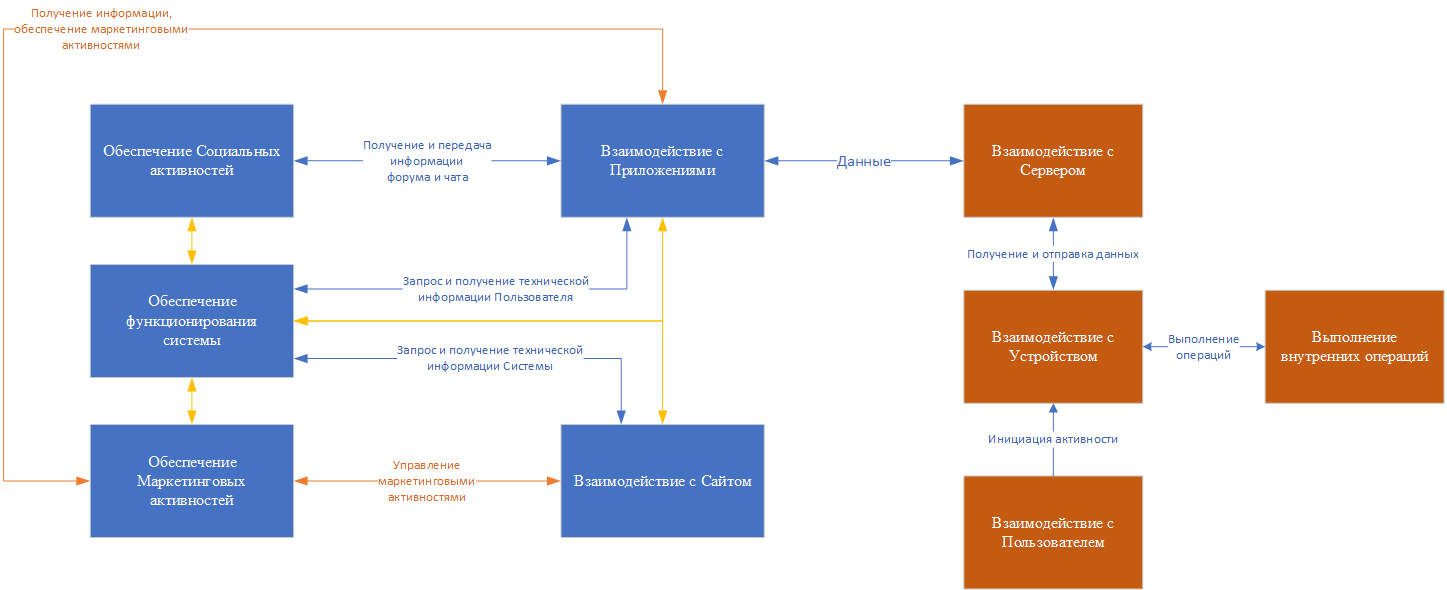
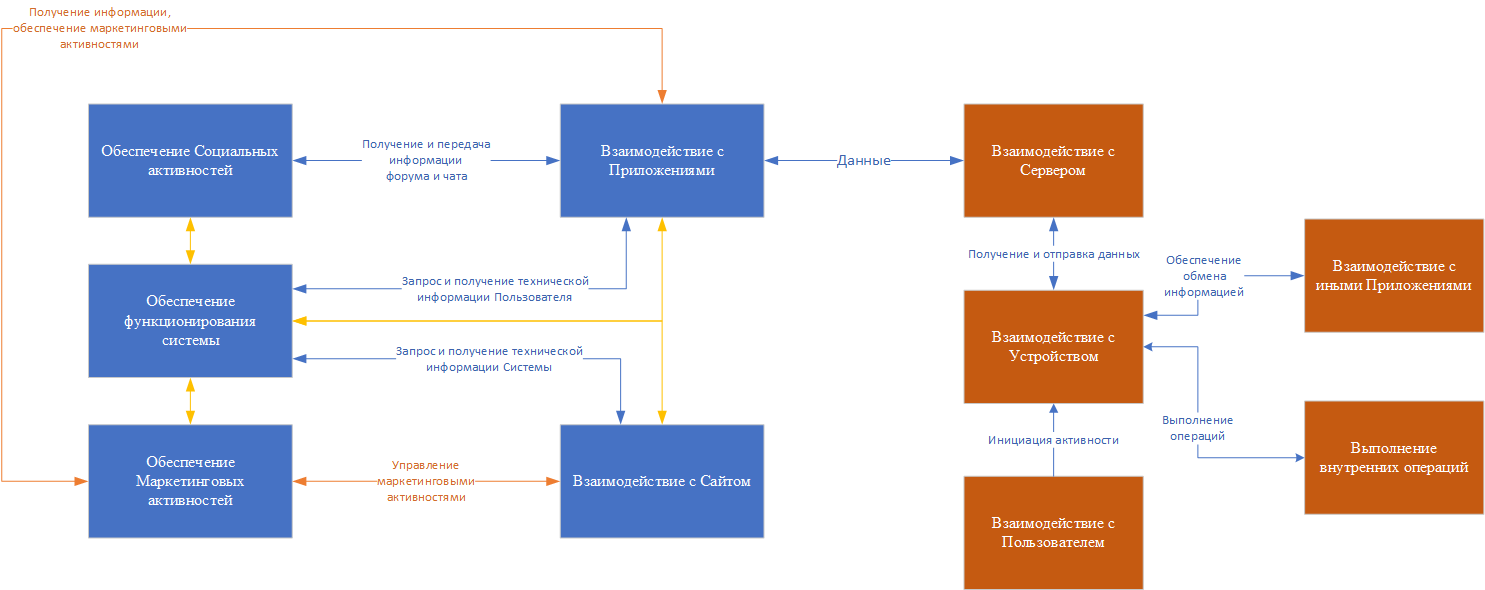
Корректировка ошибок

diff --git a/01_businessGoals.md b/01_businessGoals.md
@@ -1,23 +1,9 @@
-# Цели
+# Бизнесс-Цели
 ## As is цели
-1. [Приложение][1], повышающее приоритет нашим товарам
-2. [Приложение][2], позволяющее интегрировать другие устройства, в том числе и фитнесс-возможности мобильных устройств
+1. *Приложение, повышающее приоритет нашим товарам*. Основная задача бизнеса - зарабатывать деньги. Как бы не расхваливали самих себя маркетологи, их задача - продать товар. Первая задача - формирование позитивного образа товаров, формировапание дополнительных стимулов купить именно +товары нашей фирмы. Чем больше ништяков именно на наши товары мы завяжем - тем приятнее будет пользователю их использовать и выше шанс, что именно у нас он будет их покупать. 
+Простой пример: для наших кроссовок будет расчитываться износ с учетом расстояния, покрытия дорог, массы и роста пользователя и т.д., а для других кросовок - "на глаз". Мелочь, а приятно.
+2. *Приложение, позволяющее интегрировать другие устройства, в том числе и фитнесс-возможности мобильных устройств*. Мы - продавцы спортивных товаров. Мы должны их максимально обслуживать. И чужие тоже. Но наши - чуть лучше. Все фитнесс-трекеры, браслеты, умные кроссовки и бутылки будут умными только в соответствующей инфраструктуре. Не учитывть эти устройства - это терять огромный пласт пользователей. Мы должны уметь всё.
 
 ## To be цели
-3. [Приложение][3], позволяющее интегрировать продающие элементы с других приложений компании
-4. [Приложение][4], имеющие функции социальной сети
-
-# Обоснования
-## Приложение, повышающее приоритет нашим товарам
-[1]: Основная задача бизнеса - зарабатывать деньги. Как бы не расхваливали самх себя маркетологи, их задача - продать товар. Первая задача - формирование позитивного образа товаров, формировапание дополнительных стимулов купить именно +товары нашей фирмы. Чем больше ништяков именно на наши товары мы завяжем - тем приятнее будет пользователю их использовать и выше шанс, что именно у нас он будет их покупать. 
-Простой пример: для наших кроссовок будет расчитываться износ с учетом расстояния, покрытия дорог, массы и роста пользователя и т.д., а для других кросовок - "на глаз". Мелочь, а приятно.
-
-## Приложение, позволяющее интегрировать другие устройства, в том числе и фитнесс-возможности мобильных устройств
-[2]: Мы - продавцы спортивных товаров. Мы должны их максимально обслуживать. И чужие тоже. Но наши - чуть лучше. Все фитнесс-трекеры, браслеты, умные кроссовки и бутылки будут умными только в соответствующей инфраструктуре. Не учитывть эти устройства - это терять огромный пласт пользователей. Мы должны уметь всё.
-
-## Приложение, позволяющее интегрировать продающие элементы с других приложений компании
-[3]:Задача все та же - продавать товар. Есть приложения-магазины - туда надо направляять, предлагать, уведомлять. Пользователь думать не любит: если предложение устраивает по цене и не надо прикладывать горы усилий - он купит. 
-Как подпункт, обмен данными с иными приложениями по спорту. Глупо не интегрпировать имеющиеся результаты пользователей. Например, особое приложение для марафонцев. Если там записаны данные по тренировкам и результатам, просто выкинуть их - это очень расстроить пользователя, который этих результатов достиг. А расстроенный пользователь не купит. Ему должно быть максимально просто и комфортно перейти в приложение с любого другого из наших и даже чужих прилложений. Чем для него меньше цена перехода - тем с большим шансом он всё же увидит нашу рекламу в приложении и купит именно наш товар.
-
-## Приложение, имеющие функции социальной сети
-[4]:Социальная сеть - это реклама. Множество людей будут ежедневно рекламировать наш товар, общаясь в нашей сети. Чем легче и приятнее будет найти компанию на пробежку с приложением - тем больше людей будут его советовать, общаться о наших товарах, 
+3. *Приложение, позволяющее интегрировать продающие элементы с других приложений компании*. Задача все та же - продавать товар. Есть приложения-магазины - туда надо направляять, предлагать, уведомлять. Пользователь думать не любит: если предложение устраивает по цене и не надо прикладывать горы усилий - он купит. Как подпункт, обмен данными с иными приложениями по спорту. Глупо не интегрпировать имеющиеся результаты пользователей. Например, особое приложение для марафонцев. Если там записаны данные по тренировкам и результатам, просто выкинуть их - это очень расстроить пользователя, который этих результатов достиг. А расстроенный пользователь не купит. Ему должно быть максимально просто и комфортно перейти в приложение с любого другого из наших и даже чужих прилложений. Чем для него меньше цена перехода - тем с большим шансом он всё же увидит нашу рекламу в приложении и купит именно наш товар.
+4. *Приложение, имеющие функции социальной сети*. Социальная сеть - это реклама. Множество людей будут ежедневно рекламировать наш товар, общаясь в нашей сети. Чем легче и приятнее будет найти компанию на пробежку с приложением - тем больше людей будут его советовать, общаться о наших товарах.

diff --git a/06_wayToBuild.md b/06_wayToBuild.md
@@ -1,17 +1,18 @@
-# Этап подготовки
-## Сбор данных
+# План разработки
+## Этап подготовки
+### Сбор данных
 На данном этапе важно оценить, сколько данных может проходить через приложение, насколько оно может быть хотя бы в теории выгодным. Пока только сбор информации.
 1. Оценка колличества пользователей, их активность, потенциал роста
 2. Оценка влияния приложений на рост продаж внешних устройств
 3. Оценка экономической целесообразности по разработке
 
-## Согласования
+### Согласования
 На данном этапе важно чётко прописать какие именно функции должны быть. Не обстрактно, а до запятой. Затем этот список необходимо согласовать со всеми ЛПР, чтобы не пихать невпихуемое в готовый проект, когда ВНЕЗАПНО выяснится, что "директор хотел иначе".
 1. Оценка необходимых функций, согласование с Заказчиком
 2. Оценка необходимых к синхронизации данных Приложений, согласование с Заказчиком
 3. Составление списка необходимых к реализации функций в рамках "геймификации" и согласования с Заказчиком
 
-## Разработка архитектуры
+### Разработка архитектуры
 Прежде, чем строить, нужно сделать план.
 1. Создание концептуальной архитектуры
 2. Оценка концепции с точки зрения бизнеса
@@ -19,20 +20,20 @@
 4. Создание архитектурной схемы, согласование со всеми заинтересованными лицами
 5. Выбор мест размеещния элементов архитектуры (сторонний сервис или наш, уже имеющийся? Базу хранить в облаке или у себя?)
 
-# Разработка серверной и клиентской части 
+## Разработка серверной и клиентской части 
 Путь следующий:
 1. Разработка всех API-сервисов. Сначала все должны начать общаться со всеми.
 2. Разработка "фичи". То, что сделает приложение нужным и интересным для Клиента. Без этого никак.
 3. Разработка "фитнесс" функций. В первую очередь Клиент должен получить основной функционал, а именно - возможность бегать под присмотром. После окончания этого этапа приложение можно начать выводить на рынок и допиливать в процессе.
 3. Разработка социальных функциий. Самое некритичное с точки зрения функциональности
 
-## Этап начальной разработки
+### Этап начальной разработки
 На этом этапе важно создать предварительную инфраструктуру, проверить, что "есть коннект" между всеми элементами, они совместимы. 
-### Серверная часть
+#### Серверная часть
 1. Создание по одному экземпляру сервиса, без балансировщиков и иных изысков, на уровне API и простейшей логики.
 2. Объединение их в сеть
 3. Достижение работоспособности "стенда"
-### Приложение
+#### Приложение
 Пока главеное - заставить приложение общаться с Сервером и устройством, на котором оно установлено. Пусть не отображает карту с бегом, но хоть видит, что в телефоне есть GPS и может снять с него показания.
 1. Разработка api для общения с Сервером
 2. Разработка api для общения с Устройством
@@ -40,26 +41,28 @@
 4. Коннект приложения с сервером
 5. Разработка дизайна (с учетом "гемерской" направленности)
 
-## Этап дальнейшей разработки
-### Серверная часть
+### Этап дальнейшей разработки
+#### Серверная часть
 1. Реализация требуемых функций
 2. Внедрение балансировщиков, брокеров очередей и иных инфраструктурных элементов согласно архитектуре
-### Приложение
+#### Приложение
 1. Реализация требуемых функций
 
-## Этап финальной разработки
-### Серверная часть
+### Этап финальной разработки
+#### Серверная часть
 1. Разворачивание сервисов на "боевом" железе
 2. Тестирование
-### Приложение
+#### Приложение
 1. Тестирование
 2. Размещение в Магазинах Приложений
+#### Сайт
+Сайт - дополнительный сервис для менеджмента по отчетности и маркетингу. Имеет смысл начинать только после набора хоть минимальной аудитории. Если приложение не взлетит, то ставить туда рекламу - бессмысленно.
 
 Этапы 2 и 3 повторять для каждой новой области (фичи, фитнесс, социальная). 
 В дальнейшем - доработка, багофиксинг, балансировка выделяемых можностей в зависимости от нагрузки.
 Важно помнить о зерг-раше при маркетинговой активности в этой области.
 
-# Критически важные компоненты
-1. Самое важное - относительная автономность приложения. Оно должно работать даже при полносм отсутствии связи с сервером. 
+## Критически важные компоненты
+1. Самое важное - относительная автономность приложения. Оно должно работать даже при полном отсутствии связи с сервером. 
 2. Крайне важным является БД. Необходимы локальные БД для каждой страны (юридические ограничения), возможны наплывы пользовательской активности
 3. С точки зрения размещения, не стоит разворачивать отдельную копию сервиса в каждой из стран земного шара. Логичным будет выделение "регионов" в зависимости от ожидаемой загрузки. Район "США", "Южная Америка", "Европа", "Китай" и т.д., в зависимости от рыночной обстановки и начальтвующей воли.

diff --git a/03_stakHolders.md b/03_stakHolders.md
@@ -3,29 +3,25 @@
 1. Деньги. Владельцам искренне фиолетово на всё, им важно делать бизнесс и зарабатывать деньги. 
 Учитывая, что именно они нам платят, реализация этого интереса - самая приоритетная. Хотя, скорее всего, с людьми такого уровня общения не будет.
 
-
 ## Управляющий менеджмент
-1. Деньги. Директорат не меньше владельцев желает заработать, но, в отличии от них, куда больше пекутся об интересах фирмы. с
+1. Деньги. Директорат не меньше владельцев желает заработать, но, в отличии от них, куда больше пекутся об интересах фирмы.
 2. Отчетность. Их зарплата зависит от их результатов. Любые траты и косяки могут испортить им отчет и настроение, а нам - рабочий процесс.
 3. Репутация фирмы. Они хотят работать в крутой фирме. Потому предлагать им решения, приносящие вред репутации фирмы - плохой выбор.
-Следует предлагать те решения, что будут фирме выгодны, а лично им - ненапряжны. Плюс серьезный политический вопрос - прийти к ним на встречу с фитнесс-трекером от конкурента - плохая мысль.
-
+Следует предлагать те решения, что будут фирме выгодны, а лично им - ненапряжны. Плюс серьезный политический вопрос - прийти к ним на встречу с фитнесс-трекером от конкурента - создать себе серьезные проблемы.
 
 ## Рядовой менеджмент
 1. Продажи. Рядовому продавцу чаще всего плевать и на фирму, и её репутацию: он должен продать, выполнить план, получить зарплату и премию. Потому, с его точки зрения, все приложение - это одна большая реклама по продажам.
 2. И вообще, пусть приложение будет платным, а прибыль мне в план засчитывается!
 Самые наглые, непродуманные и зацикленные на себе товарищи. К ним нужно прислушиваться, ибо с клиентами общаются именно они и знают, что люди хотят, но ни в коем случае не ставить их хотелки в приоритет.
 
-
 ## Клиент
 1. Функционал. Скорее всего, клиенту плевать, какой именно фирмы приложение использовать. Ему нужно, чтобы функционал приложения максимально отвечал его желаниям.
 2. Дешевизна. Он не хочет платить. Из принципа. 
 3. Удобство. Он не хочет думать. Он хочет нажать кнопку и получить результат.
-4. Место на телефоне. Оно не резиновое, да и среди тысячи иконок сложно что-то найти. Максимальная универсальность приложения.
-5. Понты. Человек хочет хвастаться. Хочет быть заметным, видным, важным. 
-Именно этим людям нужно будет продать товар. Именно они принесут фирме прибыль. Потому их интересы - приоритет (сразу после прибыли для фирмы). Нужен четкий баланс между этими интересами, ибо, скорее всего, они на строго противоположных чашах весов.
+4. Место на телефоне. Оно не резиновое, да и среди тысячи иконок сложно что-то найти. Максимальная универсальность приложения при минимальном размере.
+5. Понты. Человек хочет хвастаться. Хочет быть заметным, видным, важным. Приложение не должно быть "зашкварным".
 6. Безопасность. Никто не хочет узнать, что приложение круглосуточно снимает их на камеру.
-
+Именно этим людям нужно будет продать товар. Именно они принесут фирме прибыль. Потому их интересы - приоритет (сразу после прибыли для фирмы). Нужен четкий баланс между этими интересами, ибо, скорее всего, они на строго противоположных чашах весов.
 
 ## Разработчики
 1. Удобство разработки. Четкий план, требования, список фичь и т.д. Они вне торгового цикла, но и их хотелки стоит учитывать.

diff --git a/05_risks.md b/05_risks.md
@@ -1,4 +1,5 @@
-# Бизнесс-риски
+# Описание рисков
+## Бизнесс-риски
 1. Приложение "не зайдет". Как бы великолепно не звучала идея, не исключнено, что это будет просто "работой в стол" с большими финансовыми потерями. Комплексный риск, состоящий из:
     1. Неверная целевая аудитория. Если реклама расчитана на сильных, накачанных мужиков и женщин, а устройствами пользуются "утонченные" натуры нетрадиционных ориентаций - она не окупится и приложение не взлетит. 
     2. Ошибки в дизайне. Иметь ярко-розовый миленький дизайн с понями в приложении, расчитаном на сильных брутальных спортсменов - просто не является допустимым в этой среде.
@@ -11,8 +12,8 @@
     1. Слишком мощная инфраструктура, требующая огромных финансовых затрат на поддержку при почти отсутствующей загрузке. Например, отдлеьный кластер в стране, где всего полтора пользователя знают, что такое "кроссовки".
     2. Выбор технологий, требущий множество редких и дорогих специалистов, когда эти технологии не особо-то и нужны и т.д.
 
-# Технические риски
-## Серверная часть
+## Технические риски
+### Серверная часть
 1. Ошибки в расчетах ресурсов серверов. Выделить мало - приложение будет работать медленно. Много - это будет дорого.
 2. Отдача слишком многгих функций на сервер
     1. Он не резиновй и мощнность его ограничена.
@@ -22,7 +23,6 @@
 4. Наличие "критических узлов", смерть которых сделает всю систему нерабочей.
 5. Недостаточное бекапирование. Это пользовательские данные и потеря их данных - серьезный репутационный удар.
 6. Ошибки с распределением БД и сервисов. Очень хочется всё иметь в одном месте - но это не безопасно (мало ли пожар и капец серверам). С другой строны, все в разных частях земного шара - и общение между сервисами превратится в долгоиграющий ад.
-
-## Прилложение
+### Прилложение
 1. Множество версий ОС. Множество разрешений экранов. Множество используемого оборудования. Где-то, да что-то работать будет не так. 
 2. Несовместимость встроенных в устройство протоколов, сертификатов, оборудования, используемых портов с используемыми в Приложении и т.д.

diff --git a/02_funcRequirements.md b/02_funcRequirements.md
@@ -1,4 +1,5 @@
-# Требования пользователей:
+# Функциональные требования
+## Требования пользователей:
 1. Реализация социальных компонентов в приложении
     1. Самое упоминаемые из текста задачи. Те или и иные социальные аспекты. Искренне говоря, маркетологам на людей плевать. Главное - продать товар. Переводя на русский с продающего, реклама должна делать сама себя. Все функции должны быть "более удобными" для пользователей именно нашими товарами, "более крутыми" именно с точки зрения пользования нашими товарами и т.д. Да, чем удобнее будет функционеал - тем больше людей будут этим пользоваться, обсуждать наши товары и делать нам рекламу из ничего. 
     2. Реализовывать во вторую очередь, как очень важный, но далеко не критичный функционал.
@@ -11,7 +12,7 @@
     1. Куда уж без маркетинга. Приятная мелочь для маркетологов и вызывающая отвращение у пользователей деталь. Никто не любит непродуманную и навязчивую рекламу. Тем не менее, основная задача приложения - помогать в продажах товара, без этого никак.
     2. Реализовывать не раньше, чем остальной функционенал, даже уже после релиза и набора некоторой клиентской массы. Сначала приложение должно завоевать аудиторию, потом уже пытаться ей что-то впарить.
 
-# Функциональные требования
+## Формулировка требований
 1. Приложение, позволяющее пользователю взаимодействовать с иными клиентами посредством чата, форума, особых функций ("поиск группы на тренировку" с учетом геолокации и.т.д.). Полный список должен быть согласован с Заказчиком.
 2. Приложение, эмулирующее игровой интерфейс в реальной жизни: возможность указания "экипировки", "достижения", "гайды развития персонажа" (планы тренировок) и.т.д. Полный список должен быть согласован с Заказчиком. 
 3. Приложение, имеющие возможность взаимодействовать с api современных мобильных и внешних устройств по получению фитнесс-данных. Что есть "совеменное" - нужно согласовать заранее, поддержка ~~IE6~~ Andoid 1 явно не то, что нужно.

diff --git a/09_unfuncRequirements.md b/09_unfuncRequirements.md
@@ -6,13 +6,13 @@
 4. (Основной, Юзабилити) Приложение должно обеспечить доступ к любой функции не более, чем за 5 кликов по экрану без ввода дополнительной информации. 
 5. (Быстродействие) Приложение должно прорисовывать любую страницу не более, чем за 1 секунду. Если имеется сетевой функционал - явно демонстрировать процесс загрузки данных.
 6. (Расширяемость) Приложение должно обеспечивать подключение дополнительных модулей с функционалом без переписывания остальных модулей. 
-7. (Адаптируемость) Приложение должно эмулировать работоспособность даже при невозможности получения точных данных с устройства
+7. (Адаптируемость) Приложение должно эмулировать работоспособность даже при невозможности получения точных данных с устройства или Сервера
 
 ## Сервер
 1. (Основной, Безопасность) Сервер должен делиться личной информацией пользователя только с ним самим.
 2. (Основной, Безопасность) Сервер не должен быть доступен иначе, чем через каналы для приложений, сайта управления.
 3. Надежность. Сервер должен иметь возможность восстановить функционал не позднее, чем через 15 минут после полного падения (остановки всех сервисов разом).
 4. Надежность. Аптайм серевера должен быть 99%
-5. Надежность должен иметь возможность поддерживать одновременную работу 1000 пользователей без появления задержек обработки информации более 5 секунд.
+5. Надежность. Сервер должен иметь возможность поддерживать одновременную работу 1000 пользователей без появления задержек обработки информации более 5 секунд.
 6. Реакция на стресс. Сервер должен иметь возможность поддерживать одновременную работу до 5000 пользователей с появлением задержки в обработке данных не более, чем в 30 секунд.
 7. Реакция на стресс. Сервер должен иметь возможность поддерживать одновременную работу до 10000 пользователей без падений сервисов.

diff --git a/08_attrQuality.md b/08_attrQuality.md
@@ -2,7 +2,7 @@
 ## Приложение
 1. (Основной) Надежность. Приложенпие должно работать. Даже единственный вылет приведет к серьезной потере доверия пользователей. 
 2. (Основной) Безопастность. Если приложение используется для сбора данных злоумышленниками из-за ошибок, если оно само по себе лезет куда не надо - пользователь вознегодует. Его данные должны быть только его данными. (Ну и нашими, но только с соласия пользователя).
-3. (Основной) Юзабилити. Приложение должно быть удобным и интуитивно понятным. Мало на свете людей, любящих "превозмогать" интерфейсыю
+3. (Основной) Юзабилити. Приложение должно быть удобным и интуитивно понятным. Мало на свете людей, любящих "превозмогать" интерфейсы.
 4. Быстродействие. Если приложение открывается 5 минут - это плохо. Если отрисовка страницы занимает минуту - это залет. Пользователь не хочет и не будет ждать.
 5. Расширяемость. Приложение изначально подразумевает очень обширный функционал. Если его реализовывать сразу - огромные временные затраты. Поэтапный ввод требует заранее продуманную структуру для успешного и легкого расширения.
 6. Адаптиуемость. Приложение будет устанавливаться на множество устройств с множеством ОС, оборудования и т.д. Приложение должно адаптироваться под ситуацию, работать с тем, что есть, а если совсем ничего нет - успешно импровизировать. Пример: на устройстве выключен GPS. Но включен 4G. Координаты вышек известны, можно отобразить маршрут можно запрашивая данные с нескольких вышек и высчитывая изменения расстояний за время.

diff --git a/13_baseArc.md b/13_baseArc.md
@@ -1,12 +1,12 @@
-# Сервер
+# Базовая архитектра
+## Сервер
 ![Cхема сервера](Images/serverFull.svg "Полная схема сервера")
 В схеме имеются три основных рабочих контура:
 1. Контур работы Приложения. Красный. Отвечает за основной функционал системы, позволяет работать всем социальным и большинству геймификационных функций Приложения. Запросы синхронные, т.к. данные необходимы мгновенно по запросу, пользователь не захочет ждать десяткеи минут, пока обновится чат, ему надо в режиме реального времени.
 2. Контур логирования. Голубой. Асинхронные запросы через очередь. Важость логирования внутрненних элементов велика, но отнимать на это большие ресурсы и тратить серьезное время (а принимать тысячи запросов в секунду для иодуля логирования будет очень ресурсозатратно). Потому введена очередь, чтобы Логирование работало в удобном для себя формате, не замедляя работу остальных модулей.
 3. Контур маркетинга. Позволяет обрабатывать маркетингувую информацию от пользователей приложения, а маркетологам - устраивать маркетинговые акции в приложениях пользователей.
 
-
-# Приложение
+## Приложение
 ![Cхема приложения](Images/applicationFull.svg "Полная схема приложения")
 1. Ядро приложения едино и отвечает за основные функции приложения, запуску плагинов, их взаимообмену информацией и т.д. Связано со всеми модулями приложения
 2. База данных приложения и её API для унифицированного доступа с любого плагина. Напрямую связана с ядром, API доступна всем модулям.

diff --git a/10_arcOptions.md b/10_arcOptions.md
@@ -23,7 +23,7 @@
 2. Уже есть доступ и обслуживание
 3. Всегда можно переехать на отдельное железо, если на то будет рыночная необходимость и выгода.
 
-Возможные проблемы:
+#### Возможные проблемы:
 1. При внезапном наплыве посетителей можем повесить не только нес, но и "соседей". Нужно жестко определять выделяемые ресурсы.
 2. Умереть может и сосед, повесив нас. Но там тоже свои, мы им верим.
 3. Рост посещаемости может оказаться настолько стремительным, что придется переезжать в авральном режиме. Но это надо смотреть по полученной статисткие. Скорее всего, рост будет очень плавным и невысоким. 
@@ -43,7 +43,6 @@
 ### Подход к разработке
 У нас уже очень много готовых элементов, программистов, решений. НАВЕРНЯКА часть модулей, таких как api, логирование, авторизация уже написаны и испытаны. 
 Всё, что есть готового - взять и переиспользовать. Затем уже смотреть, чего не хватает и анализировать. Возможно, купить, возможно - писать своё.
-
 
 ## Приложение
 ### Стиль построения приложений

diff --git a/CommonViews/func.md b/CommonViews/func.md
@@ -15,6 +15,7 @@
 2. Взаимодействие с Пользователем, куда входит интерфейс приложения, все механизмы ввода и вывода информации, включая синхронизации с иными приложениями. Является инициатором для деятельности Приложения и Сервера.
 3. Взаимодействие с Устройством, включающим все механизмы приема-передачи информации на внешние устройства (в том числле носитель), все протоколы взаимодействия. Основнной блок приложения, его Ядро.
 4. Выполнение внутренних операций. Внутренняя логика, расчет "Достижений", выполнение расчетом расстояний, координат отображения на карте и так далее.
+5. Взаимодействие с иными Приложениями. Включает в себя обмен спортивными показателями, возможность перехода на внешние маркетинговые приложения и т.д.
 
 ### Сервер
 1. Взаимодействие с Приложениями, включая все методы получения запросов и выдача указаний Приложениям, обеспечение безопастности, проверку прав доступа и т.д. 

diff --git a/12_usingScenarios.md b/12_usingScenarios.md
@@ -1,4 +1,5 @@
-# Типы пользователей
+# Описание сценариев использования приложения
+## Типы пользователей
 Всего системой "сервер-приложение" будут пользоваться две основных категории людей:
 1. *Пользователи*, куда входят:
     1. *Спортсмены*, использующие приложение на постоянной основе. Им самое важное - бесперебойная работа фитнес-функций. Основной наш контингент.
@@ -10,13 +11,13 @@
     2. *Руководители*, которым нужна отчетность. Отчеты, метрики, контроль активности.
     3. *Техники*, отслеживающий технические показатели системы. Метрики работоспособности систем, скорость общения приложений с сервером, возможно, доступ к каким-либо техническим логам. 
 
-# Сценарии
-## Пользователи
+## Сценарии
+### Пользователи
 1. [Спортсмены](Scenarios/01_sportmans.md)
 2. [Говоруны](Scenarios/02_govoruns.md)
 3. [Покупатели](Scenarios/03_buyer.md)
 
-## Менеджеры
+### Менеджеры
 1. [Маркетологи](Scenarios/04_marketman.md)
 2. [Руководители](Scenarios/05_header.md)
 3. [Техники](Scenarios/06_teckAdmin.md)

diff --git a/04_firsrArc.md b/04_firsrArc.md
@@ -1,7 +1,7 @@
 # Концеатуальная схема архитектуры
 ![Концептуальная схема](FirstArc.svg "Концептуальная схема")
 
-1. Речь идет о крайне распределенной и, весьма вероятно, высоконагруженной системе. Потому в качестве основы - микросервисная архитектура, позволяющая максимально гибко адаптироватиться к требованиям и изменениям. 
+1. Речь идет о крайне распределенной и, весьма желательно, высоконагруженной системе. Потому в качестве основы - микросервисная архитектура, позволяющая максимально гибко адаптироватиться к требованиям и изменениям. 
 2. Три основные части:
     1. Приложение. То, что видит пользователь и то, что взаимодействует с его устройствами.
     2. Сервер. То, что соединяет разных пользователей между собой, позволяет взаимодействовать с внешнеим миром
